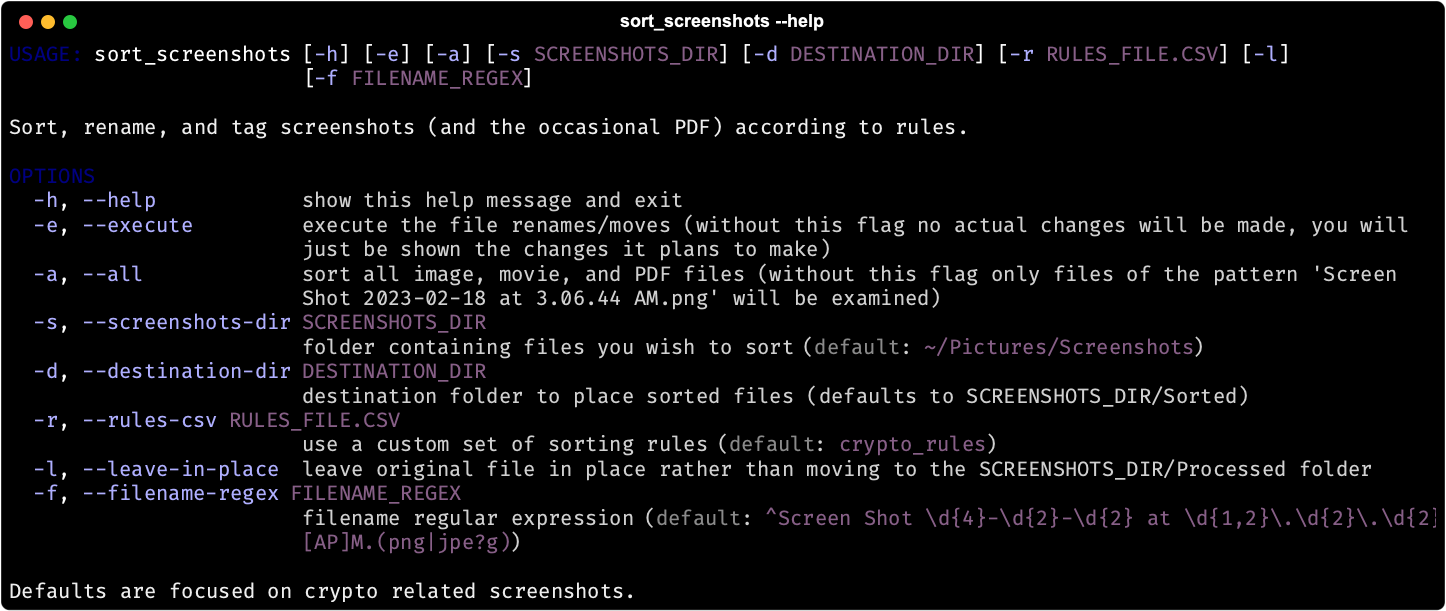
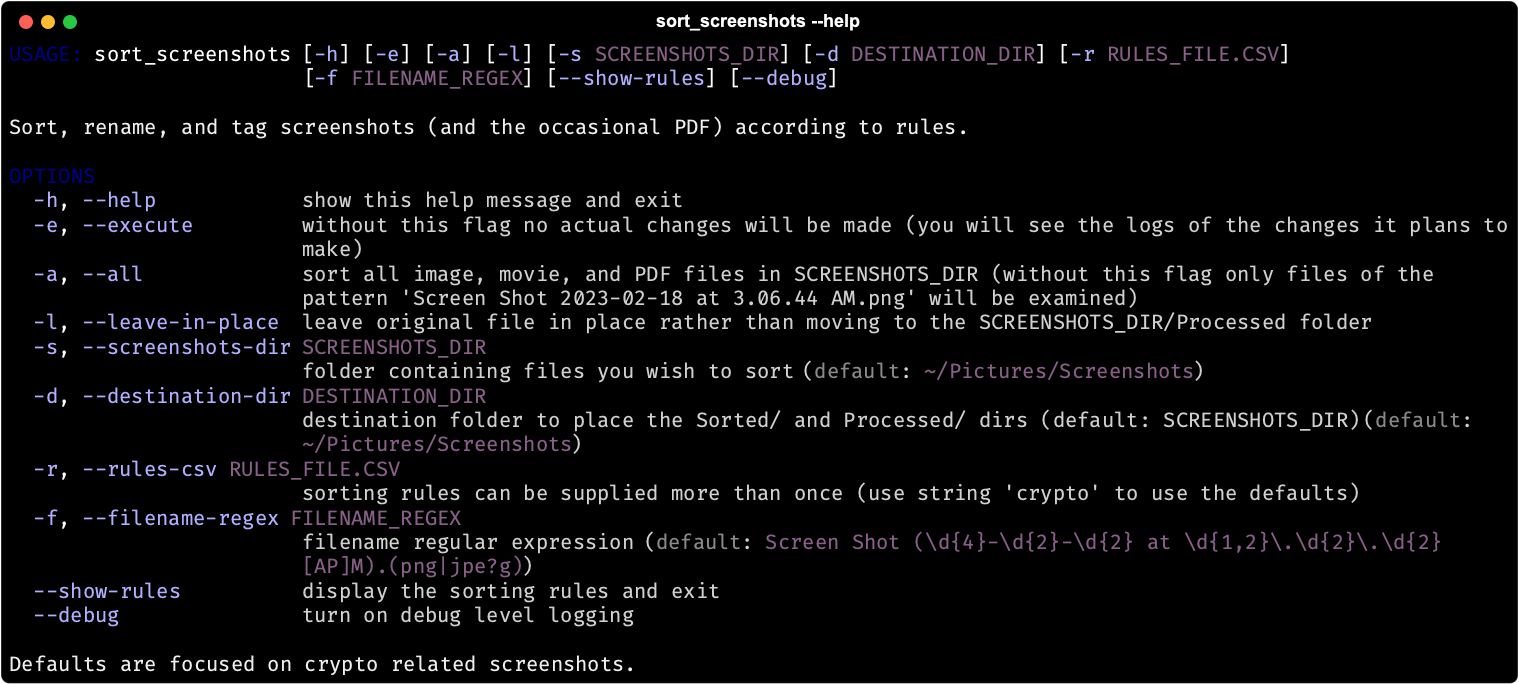
Help

Changed region(s): [[0.0, 0.2488, 1.0, 1.0], [0.0, 0.0, 0.9025, 0.2177], [0.9959, 0.0, 1.0, 0.0311]]

diff --git a/clown_sort/util/argument_parser.py b/clown_sort/util/argument_parser.py
@@ -32,13 +32,12 @@ parser.add_argument('-l', '--leave-in-place', action='store_true',
 parser.add_argument('-s', '--screenshots-dir',
                     metavar='SCREENSHOTS_DIR',
                     help='folder containing files you wish to sort',
-                    default=str(DEFAULT_SCREENSHOTS_DIR))
-                    #default=str(DEFAULT_SCREENSHOTS_DIR).replace(str(Path.home()), '~'))
+                    default=str(DEFAULT_SCREENSHOTS_DIR).replace(str(Path.home()), '~'))
 
 parser.add_argument('-d', '--destination-dir',
                     metavar='DESTINATION_DIR',
                     help='destination folder to place the Sorted/ and Processed/ dirs (default: SCREENSHOTS_DIR)',
-                    default=str(DEFAULT_DESTINATION_DIR))
+                    default=str(DEFAULT_DESTINATION_DIR).replace(str(Path.home()), '~'))
 
 parser.add_argument('-r', '--rules-csv',
                     action='append',

diff --git a/clown_sort/config.py b/clown_sort/config.py
@@ -58,8 +58,9 @@ class Config:
         rules_csvs = [CRYPTO_RULES_CSV_PATH if arg == CRYPTO else arg for arg in rules_csvs]
         log.debug(f"Rules CSVs: {rules_csvs}")
 
-        destination_dir = args.destination_dir or args.screenshots_dir
-        Config.set_directories(args.screenshots_dir, destination_dir, rules_csvs)
+        screenshots_dir = Path(args.screenshots_dir).expanduser()
+        destination_dir = Path(args.destination_dir or args.screenshots_dir).expanduser()
+        Config.set_directories(screenshots_dir, destination_dir, rules_csvs)
         Config.filename_regex = re.compile(args.filename_regex)
         Config.leave_in_place = True if args.leave_in_place else False
 
@@ -104,7 +105,6 @@ class Config:
             if not dir.is_dir():
                 log.warning(f"Need to create '{dir}'")
                 dir.mkdir(parents=True, exist_ok=True)
-
 
         cls._log_configured_paths()
 
